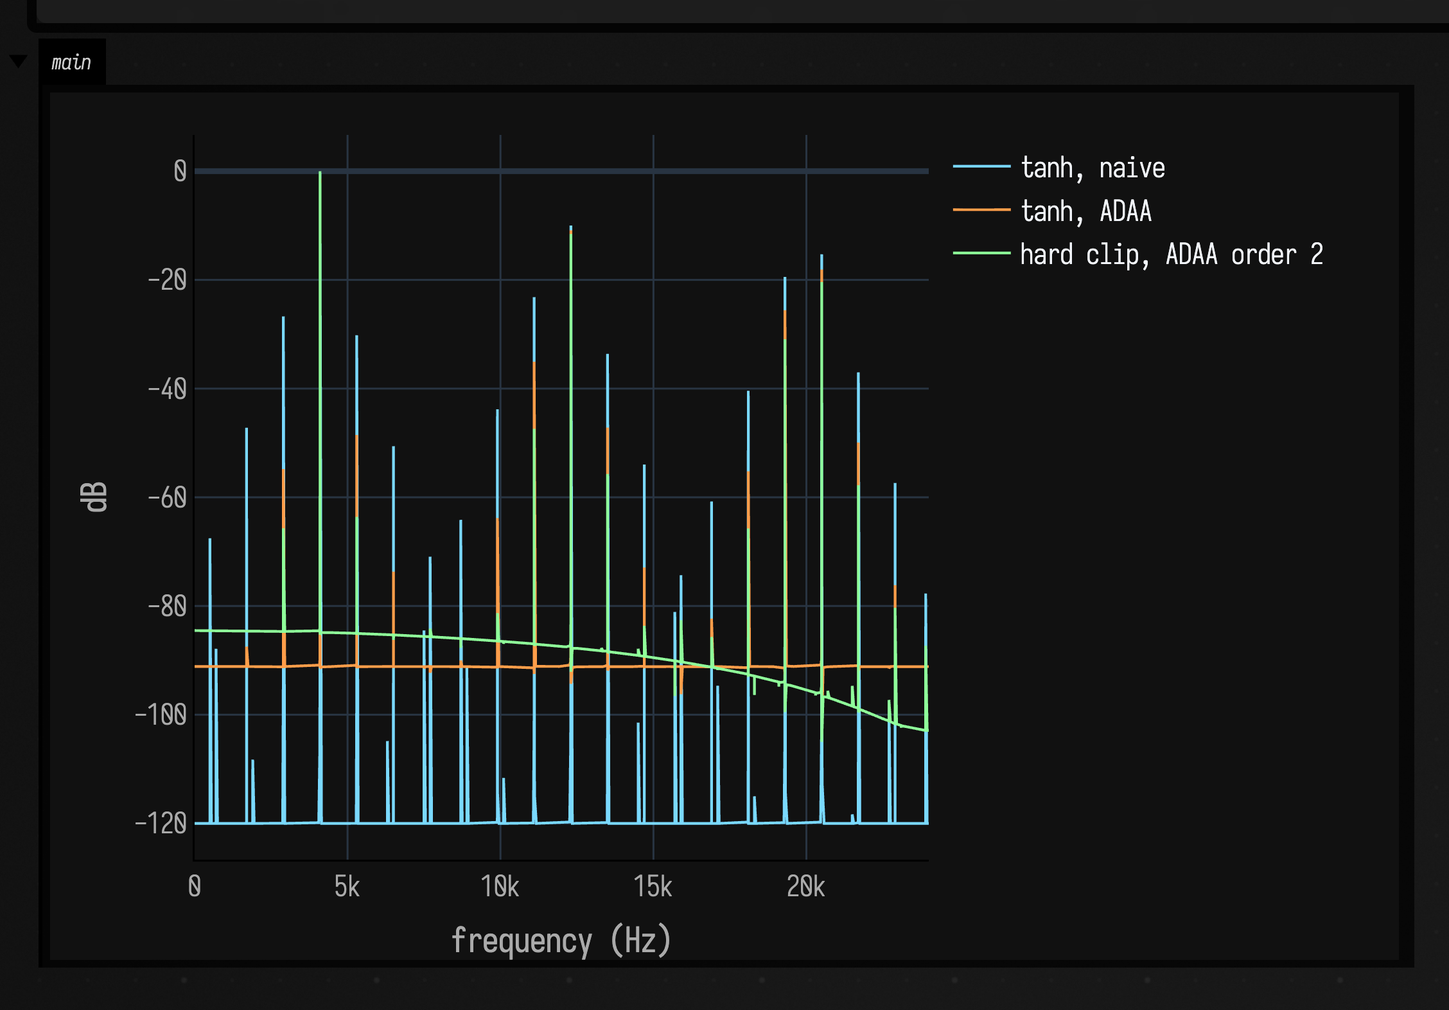
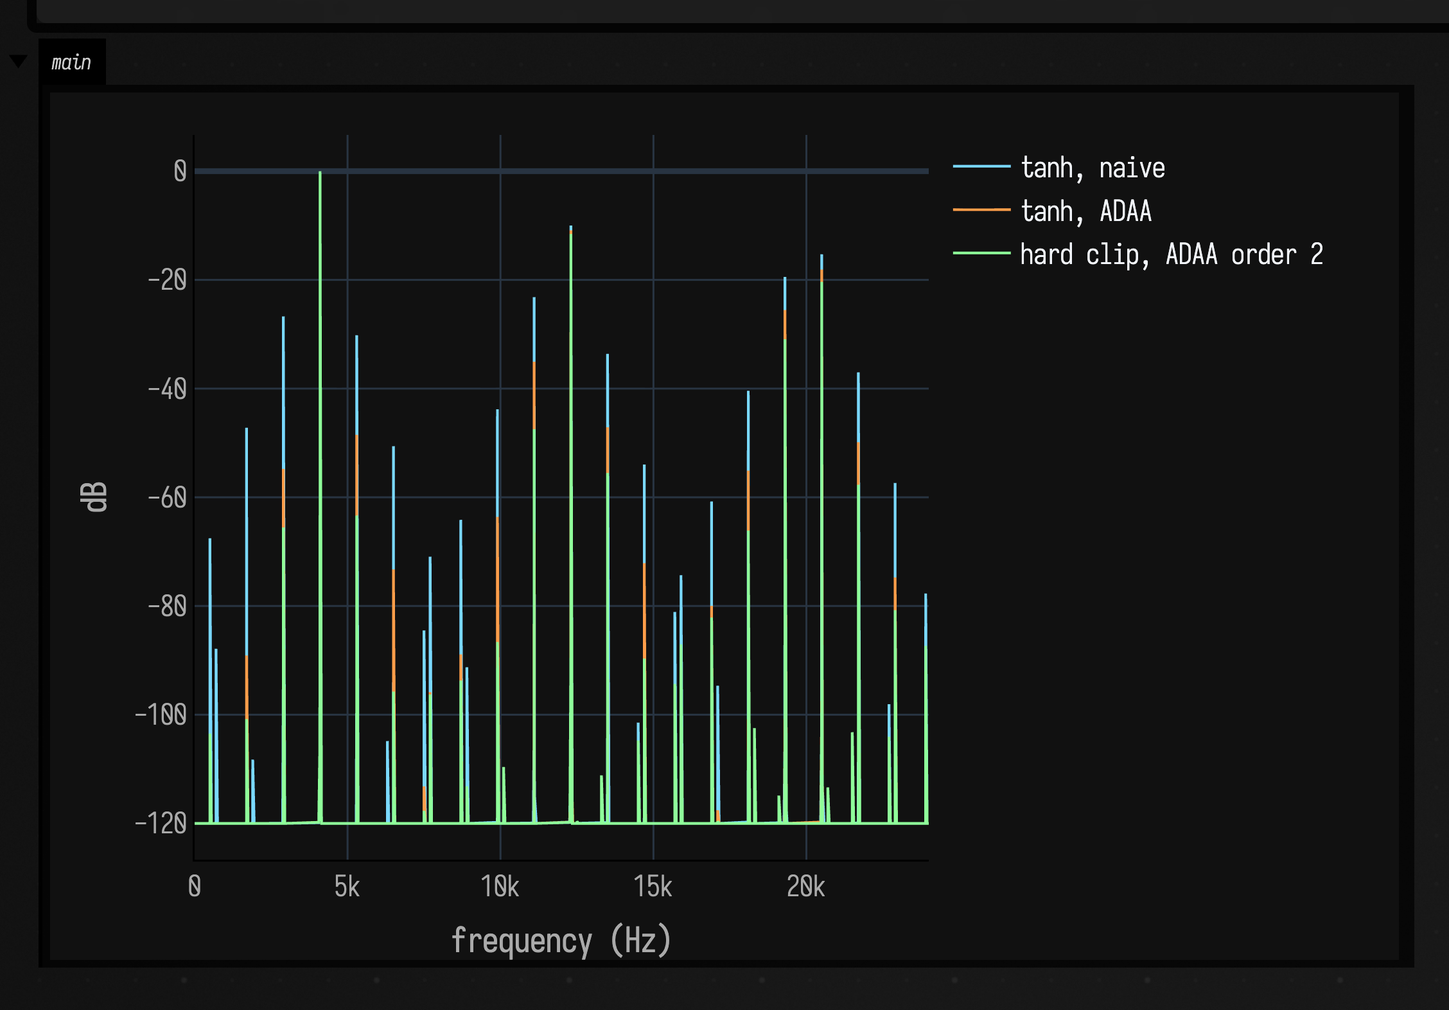
ADAA follow-ups: the −91 dB floor was the measurement, Smoother vs Slew, audio beside its figures
The ADAA tanh spectrum on spectral_examples.md sat on a flat floor near
−91 dB. Probing showed it was not ADAA noise: an exact double-precision
sine gives the same −91.1 dB in every off-line bin (median = p90 = max),
which is one isolated sample. The shaper's history starts at zero, a
running sine's never does, and inside a one-second rectangular FFT that
first sample is an impulse. After a 0.1 s warm-up the floor is −154 dB,
below naive tanh's −146 dB float floor. AdaaShaper is unchanged; the figure
and NonlinearTptTest's alias measurement now analyse a warmed second, and
adaaHasNoNoiseFloorOnceWarm pins the off-line median below −130 dB. The
alias totals are unchanged (tanh −17 → −25 dB; hard clip −15 → −23 → −31).

Smoother stays: Slew limits rate (time per unit of change, starts at
zero), Smoother LINEAR reaches each value in a fixed time and primes with
its first sample. Both KDocs now say which to use when.

Each audio clip moves next to the figure it belongs to: the tanh pair by
the spectrogram, the ladder and SVF by the self-oscillation plot, the
stepped pair under "Smoothing a stepped control". adaa_spectrum.png is
recaptured by the docs runner; the other figures keep their committed bytes.

Changed region(s): [[0.1551, 0.6234, 0.6516, 0.8416]]

diff --git a/src/jvmTest/kotlin/afield/audio/synth/NonlinearTptTest.kt b/src/jvmTest/kotlin/afield/audio/synth/NonlinearTptTest.kt
@@ -89,9 +89,28 @@ class NonlinearTptTest {
         return bins.maxOf { db[it] } - ref to total
     }
 
+    /**
+     * One second of [s] after a tenth of a second of warm-up. A shaper with memory starts with its
+     * history at zero, which a running sine never has; inside a one-second rectangular FFT that
+     * first sample is an impulse, and it shows as a flat floor near −91 dB under every bin.
+     */
+    private fun warmed(s: Signal): FloatArray {
+        val out = renderSignalsOffline(1.1, s)[0]
+        return out.copyOfRange(out.size - sr, out.size)
+    }
+
+    /** Off the harmonics and aliases, a warmed ADAA `tanh` sits at float rounding, not at a start-up floor. */
+    @Test fun adaaHasNoNoiseFloorOnceWarm() {
+        val db = fft(warmed(SineOsc(Param(4100f)) / AdaaShaper(AdaaShape.TANH, Param(8f))), sr.toDouble())
+            .magnitudeDbOneSided(floorDb = -200.0)
+        val off = db.indices.filter { it % 100 != 0 }.map { db[it] - db[4100] }.sorted()
+        val median = off[off.size / 2]
+        assertTrue(median < -130.0, "median off-line bin of a warmed ADAA tanh is $median dB, expected below -130")
+    }
+
     @Test fun adaaAliasesLessThanNaiveShaping() {
         val f0 = 4100
-        fun through(p: SignalProcessor) = aliasDb(renderSignalsOffline(1.0, SineOsc(Param(f0.toFloat())) / p)[0], f0)
+        fun through(p: SignalProcessor) = aliasDb(warmed(SineOsc(Param(f0.toFloat())) / p), f0)
         val tn = through(Waveshaper.tanh(Param(8f)))
         val ta = through(AdaaShaper(AdaaShape.TANH, Param(8f)))
         val c0 = through(Waveshaper.hardClip(Param(8f)))

diff --git a/src/jvmMain/kotlin/afield/audio/synth/Filters.kt b/src/jvmMain/kotlin/afield/audio/synth/Filters.kt
@@ -1056,6 +1056,13 @@ enum class SmootherMode {
  * The first sample is passed through as the starting value, so a smoother never ramps up from zero
  * when a graph starts. [Param.smoothed] wraps a parameter in one, which is the usual way in:
  * `ZdfLadder(cutoff = cutoffParam.smoothed(0.03f))`.
+ *
+ * Two neighbours do similar jobs differently. [Slew] limits the *rate*: its times are per unit of
+ * change, so a jump of 2000 Hz takes two thousand times as long as a jump of 1, rising and falling
+ * can differ, and it starts from zero — right for portamento, wrong for a cutoff slider. `LINEAR`
+ * here instead reaches every new value in the same `time`, whatever the size of the step. `EXP` is
+ * the same lag as an [OnePole] lowpass, set by a time constant instead of a cutoff and primed with
+ * the first sample instead of zero.
  */
 class Smoother(
     val time: Param = Param(0.02f),

diff --git a/src/jvmMain/kotlin/afield/audio/synth/Envelopes.kt b/src/jvmMain/kotlin/afield/audio/synth/Envelopes.kt
@@ -386,6 +386,10 @@ class EnvelopeFollower(
 /**
  * Limits how fast a signal can change.
  * [riseTime] and [fallTime] are in seconds (time to traverse full range).
+ *
+ * Because the limit is a rate, a large jump takes proportionally longer than a small one. To take
+ * the steps out of a control (a slider on a cutoff) in a fixed time whatever their size, use
+ * [Smoother] or [Param.smoothed].
  */
 class Slew(
     val input: Signal,

diff --git a/public/docs/reference/synthesis.md b/public/docs/reference/synthesis.md
@@ -1273,7 +1273,7 @@ Tracks the amplitude envelope of an input signal. Uses separate attack and relea
 
 ### Slew { #envelopes-kt-slew }
 
-[<code class="highlight"><span class="k">class</span> <span class="nf">Slew</span><span class="p">(</span><span class="k">val</span> <span class="n">input</span><span class="p">:</span> <span class="nc">Signal</span><span class="p">,</span> <span class="k">val</span> <span class="n">riseTime</span><span class="p">:</span> <span class="nc">Param</span> <span class="o">=</span> <span class="nc">Param</span><span class="p">(</span><span class="mf">0.01f</span><span class="p">)</span><span class="p">,</span> <span class="k">val</span> <span class="n">fallTime</span><span class="p">:</span> <span class="nc">Param</span> <span class="o">=</span> <span class="nc">Param</span><span class="p">(</span><span class="mf">0.01f</span><span class="p">)</span><span class="p">)</span> <span class="p">:</span> <span class="nc">Signal</span><span class="p">(</span><span class="p">)</span></code>](source/jvmMain/afield/audio/synth/Envelopes/#L390)
+[<code class="highlight"><span class="k">class</span> <span class="nf">Slew</span><span class="p">(</span><span class="k">val</span> <span class="n">input</span><span class="p">:</span> <span class="nc">Signal</span><span class="p">,</span> <span class="k">val</span> <span class="n">riseTime</span><span class="p">:</span> <span class="nc">Param</span> <span class="o">=</span> <span class="nc">Param</span><span class="p">(</span><span class="mf">0.01f</span><span class="p">)</span><span class="p">,</span> <span class="k">val</span> <span class="n">fallTime</span><span class="p">:</span> <span class="nc">Param</span> <span class="o">=</span> <span class="nc">Param</span><span class="p">(</span><span class="mf">0.01f</span><span class="p">)</span><span class="p">)</span> <span class="p">:</span> <span class="nc">Signal</span><span class="p">(</span><span class="p">)</span></code>](source/jvmMain/afield/audio/synth/Envelopes/#L394)
 
 Limits how fast a signal can change. [`riseTime`](synthesis.md#envelopes-kt--slew--risetime) and [`fallTime`](synthesis.md#envelopes-kt--slew--falltime) are in seconds (time to traverse full range).
 
@@ -1282,7 +1282,7 @@ Limits how fast a signal can change. [`riseTime`](synthesis.md#envelopes-kt--sle
 | <a id="envelopes-kt--slew--input"></a><code class="highlight"><span class="k">val</span> <span class="n">input</span><span class="p">:</span> <span class="nc">Signal</span></code> |  |
 | <a id="envelopes-kt--slew--risetime"></a><code class="highlight"><span class="k">val</span> <span class="n">riseTime</span><span class="p">:</span> <span class="nc">Param</span></code> |  |
 | <a id="envelopes-kt--slew--falltime"></a><code class="highlight"><span class="k">val</span> <span class="n">fallTime</span><span class="p">:</span> <span class="nc">Param</span></code> |  |
-| <a id="envelopes-kt--slew--generate"></a>[<code class="highlight"><span class="k">override</span> <span class="k">fun</span> <span class="nf">generate</span><span class="p">(</span><span class="n">output</span><span class="p">:</span> <span class="nc">FloatArray</span><span class="p">,</span> <span class="n">numFrames</span><span class="p">:</span> <span class="nc">Int</span><span class="p">,</span> <span class="n">ctx</span><span class="p">:</span> <span class="nc">SynthContext</span><span class="p">)</span></code>](source/jvmMain/afield/audio/synth/Envelopes/#L400) |  |
+| <a id="envelopes-kt--slew--generate"></a>[<code class="highlight"><span class="k">override</span> <span class="k">fun</span> <span class="nf">generate</span><span class="p">(</span><span class="n">output</span><span class="p">:</span> <span class="nc">FloatArray</span><span class="p">,</span> <span class="n">numFrames</span><span class="p">:</span> <span class="nc">Int</span><span class="p">,</span> <span class="n">ctx</span><span class="p">:</span> <span class="nc">SynthContext</span><span class="p">)</span></code>](source/jvmMain/afield/audio/synth/Envelopes/#L404) |  |
 
 ## ExplainerSoundDocs.kt { #explainersounddocs-kt }
 
@@ -2476,7 +2476,7 @@ self-oscillate cleanly at their cutoff. [`Smoother`](synthesis.md#filters-kt-smo
 | <a id="filters-kt--lowpass"></a>[<code class="highlight"><span class="k">fun</span> <span class="nc">Signal</span><span class="p">.</span><span class="nf">lowpass</span><span class="p">(</span><span class="n">cutoffHz</span><span class="p">:</span> <span class="nc">Float</span><span class="p">,</span> <span class="n">q</span><span class="p">:</span> <span class="nc">Float</span> <span class="o">=</span> <span class="mf">0.707f</span><span class="p">)</span><span class="p">:</span> <span class="nc">Signal</span></code>](source/jvmMain/afield/audio/synth/Filters/#L83) | This signal through a 12 dB/octave [`Biquad`](synthesis.md#filters-kt-biquad) lowpass at `cutoffHz`: `bass.lowpass(150f)`. |
 | <a id="filters-kt--highpass"></a>[<code class="highlight"><span class="k">fun</span> <span class="nc">Signal</span><span class="p">.</span><span class="nf">highpass</span><span class="p">(</span><span class="n">cutoffHz</span><span class="p">:</span> <span class="nc">Float</span><span class="p">,</span> <span class="n">q</span><span class="p">:</span> <span class="nc">Float</span> <span class="o">=</span> <span class="mf">0.707f</span><span class="p">)</span><span class="p">:</span> <span class="nc">Signal</span></code>](source/jvmMain/afield/audio/synth/Filters/#L86) | This signal through a 12 dB/octave [`Biquad`](synthesis.md#filters-kt-biquad) highpass at `cutoffHz`. See [`lowpass`](synthesis.md#filters-kt--lowpass). |
 | <a id="filters-kt--impulseresponse"></a>[<code class="highlight"><span class="k">fun</span> <span class="nf">impulseResponse</span><span class="p">(</span><span class="n">processor</span><span class="p">:</span> <span class="nc">SignalProcessor</span><span class="p">,</span> <span class="n">frames</span><span class="p">:</span> <span class="nc">Int</span> <span class="o">=</span> <span class="mi">8192</span><span class="p">,</span> <span class="n">sampleRate</span><span class="p">:</span> <span class="nc">Int</span> <span class="o">=</span> <span class="mi">48</span><span class="n">&#95;000</span><span class="p">,</span> <span class="n">amplitude</span><span class="p">:</span> <span class="nc">Float</span> <span class="o">=</span> <span class="mi">1f</span><span class="p">)</span><span class="p">:</span> <span class="nc">FloatArray</span></code>](source/jvmMain/afield/audio/synth/Filters/#L742) | The impulse response of `processor` at `sampleRate`: a unit impulse rendered through it for `frames` samples. Use small `amplitude` to read a nonlinear filter's small-signal response. The processor's state is consumed; pass a fresh one. Its magnitude response is `fft(impulseResponse(f, sampleRate), sampleRate.toDouble()).magnitudeDbOneSided()`, one bin per hertz when `frames` equals `sampleRate`. |
-| <a id="filters-kt--smoothed"></a>[<code class="highlight"><span class="k">fun</span> <span class="nc">Param</span><span class="p">.</span><span class="nf">smoothed</span><span class="p">(</span><span class="n">seconds</span><span class="p">:</span> <span class="nc">Float</span> <span class="o">=</span> <span class="mf">0.02f</span><span class="p">,</span> <span class="n">mode</span><span class="p">:</span> <span class="nc">SmootherMode</span> <span class="o">=</span> <span class="nc">SmootherMode</span><span class="p">.</span><span class="nc">EXP</span><span class="p">)</span><span class="p">:</span> <span class="nc">Param</span></code>](source/jvmMain/afield/audio/synth/Filters/#L1093) | This parameter through a [`Smoother`](synthesis.md#filters-kt-smoother) of `seconds`, as a new [`Param`](synthesis.md#signal-kt-param) to hand to a filter: set this one's `base` from a slider and the filter sees the value glide rather than jump. |
+| <a id="filters-kt--smoothed"></a>[<code class="highlight"><span class="k">fun</span> <span class="nc">Param</span><span class="p">.</span><span class="nf">smoothed</span><span class="p">(</span><span class="n">seconds</span><span class="p">:</span> <span class="nc">Float</span> <span class="o">=</span> <span class="mf">0.02f</span><span class="p">,</span> <span class="n">mode</span><span class="p">:</span> <span class="nc">SmootherMode</span> <span class="o">=</span> <span class="nc">SmootherMode</span><span class="p">.</span><span class="nc">EXP</span><span class="p">)</span><span class="p">:</span> <span class="nc">Param</span></code>](source/jvmMain/afield/audio/synth/Filters/#L1100) | This parameter through a [`Smoother`](synthesis.md#filters-kt-smoother) of `seconds`, as a new [`Param`](synthesis.md#signal-kt-param) to hand to a filter: set this one's `base` from a slider and the filter sees the value glide rather than jump. |
 
 ### OnePole { #filters-kt-onepole }
 
@@ -2740,7 +2740,7 @@ Constants: `EXP`, `LINEAR`.
 
 ### Smoother { #filters-kt-smoother }
 
-[<code class="highlight"><span class="k">class</span> <span class="nf">Smoother</span><span class="p">(</span><span class="k">val</span> <span class="n">time</span><span class="p">:</span> <span class="nc">Param</span> <span class="o">=</span> <span class="nc">Param</span><span class="p">(</span><span class="mf">0.02f</span><span class="p">)</span><span class="p">,</span> <span class="k">val</span> <span class="n">mode</span><span class="p">:</span> <span class="nc">SmootherMode</span> <span class="o">=</span> <span class="nc">SmootherMode</span><span class="p">.</span><span class="nc">EXP</span><span class="p">)</span> <span class="p">:</span> <span class="nc">SignalProcessor</span><span class="p">(</span><span class="p">)</span></code>](source/jvmMain/afield/audio/synth/Filters/#L1060)
+[<code class="highlight"><span class="k">class</span> <span class="nf">Smoother</span><span class="p">(</span><span class="k">val</span> <span class="n">time</span><span class="p">:</span> <span class="nc">Param</span> <span class="o">=</span> <span class="nc">Param</span><span class="p">(</span><span class="mf">0.02f</span><span class="p">)</span><span class="p">,</span> <span class="k">val</span> <span class="n">mode</span><span class="p">:</span> <span class="nc">SmootherMode</span> <span class="o">=</span> <span class="nc">SmootherMode</span><span class="p">.</span><span class="nc">EXP</span><span class="p">)</span> <span class="p">:</span> <span class="nc">SignalProcessor</span><span class="p">(</span><span class="p">)</span></code>](source/jvmMain/afield/audio/synth/Filters/#L1067)
 
 Smooths a stepped control signal so a filter or gain fed from it does not click. A slider writing a constant [`Param`](synthesis.md#signal-kt-param)'s `base` jumps between audio blocks; a sequence of steps jumps on the sample; either, fed to a cutoff, is a zipper. `stepped / Smoother(0.02.p)` takes the corner off every step.
 
@@ -2748,7 +2748,7 @@ Smooths a stepped control signal so a filter or gain fed from it does not click.
 | --- | --- |
 | <a id="filters-kt--smoother--time"></a><code class="highlight"><span class="k">val</span> <span class="n">time</span><span class="p">:</span> <span class="nc">Param</span></code> |  |
 | <a id="filters-kt--smoother--mode"></a><code class="highlight"><span class="k">val</span> <span class="n">mode</span><span class="p">:</span> <span class="nc">SmootherMode</span></code> |  |
-| <a id="filters-kt--smoother--generate"></a>[<code class="highlight"><span class="k">override</span> <span class="k">fun</span> <span class="nf">generate</span><span class="p">(</span><span class="n">output</span><span class="p">:</span> <span class="nc">FloatArray</span><span class="p">,</span> <span class="n">numFrames</span><span class="p">:</span> <span class="nc">Int</span><span class="p">,</span> <span class="n">ctx</span><span class="p">:</span> <span class="nc">SynthContext</span><span class="p">)</span></code>](source/jvmMain/afield/audio/synth/Filters/#L1068) |  |
+| <a id="filters-kt--smoother--generate"></a>[<code class="highlight"><span class="k">override</span> <span class="k">fun</span> <span class="nf">generate</span><span class="p">(</span><span class="n">output</span><span class="p">:</span> <span class="nc">FloatArray</span><span class="p">,</span> <span class="n">numFrames</span><span class="p">:</span> <span class="nc">Int</span><span class="p">,</span> <span class="n">ctx</span><span class="p">:</span> <span class="nc">SynthContext</span><span class="p">)</span></code>](source/jvmMain/afield/audio/synth/Filters/#L1075) |  |
 
 ## FnSignal.kt { #fnsignal-kt }
 

diff --git a/public/docs/spectral_examples.md b/public/docs/spectral_examples.md
@@ -620,14 +620,28 @@ showHeatmap(
 
 ![Two spectrograms side by side on a dark ground, time left to right, frequency upward. In each, an orange fundamental curves up from the bottom left and a fan of fainter cyan harmonics curves up above it. Many cyan lines reflect off the top edge and run back down, crossing the fan in a lattice. The lattice is bright in the left half and visibly dimmer in the right half, especially low in the frame](assets/tpt_filters/adaa_spectrogram.png)
 
+To hear it: the 200 Hz to 8 kHz sweep through `tanh` at drive 6, first naive, then with ADAA. Listen in the last
+second, where the aliases fall in pitch as the sweep rises:
+
+```diffstatic_runner {data-lang=kotlin audio="assets/tpt_filters/tanh-naive.wav" audio-spec="tanh-naive" audio-renderer="afield.audio.synth.TptFilterDocs" embed=true hidden=true name="tpt-filters-tanh-naive-audio"}
+// Offline-rendered by TptFilterDocs.renderWav("tanh-naive").
+```
+
+```diffstatic_runner {data-lang=kotlin audio="assets/tpt_filters/tanh-adaa.wav" audio-spec="tanh-adaa" audio-renderer="afield.audio.synth.TptFilterDocs" embed=true hidden=true name="tpt-filters-tanh-adaa-audio"}
+// Offline-rendered by TptFilterDocs.renderWav("tanh-adaa").
+```
+
 The same comparison at one frequency, a 4.1 kHz sine at drive 8, for `tanh` and for the hard clip
 at both orders. Every peak that is not a multiple of 4.1 kHz is an alias:
 
 ```diffstatic_runner {data-lang=kotlin screenshot="assets/tpt_filters/adaa_spectrum.png" wait="2.0" capture="box" open-outputs="true" padding="20"}
 :::static
-// dB relative to the fundamental, floored at −120
+// dB relative to the fundamental, floored at −120. The first 0.1 s is dropped: a shaper's
+// history starts at zero, which a running sine never has, and that first sample would show as a
+// flat floor under every bin.
 fun spectrumDb(shaper: SignalProcessor): List<Double> {
-    val db = fft(renderSignalsOffline(1.0, SineOsc(4100.p) / shaper)[0], 48_000.0).magnitudeDbOneSided(floorDb = -200.0)
+    val out = renderSignalsOffline(1.1, SineOsc(4100.p) / shaper)[0]
+    val db = fft(out.copyOfRange(4800, out.size), 48_000.0).magnitudeDbOneSided(floorDb = -200.0)
     return db.map { (it - db[4100]).coerceAtLeast(-120.0) }
 }
 
@@ -641,7 +655,7 @@ showSignals(
 )
 ```
 
-![Three spectra of a 4.1 kHz sine at drive 8 in dB relative to the fundamental, to 24 kHz. All share the fundamental at 0 dB and harmonics near −10 dB at 12.3 kHz and −15 dB at 20.5 kHz. Between them the naive tanh in blue has alias spikes up to about −20 dB, the loudest near 19.3 kHz and 11.1 kHz. The ADAA tanh in orange has spikes at the same places, mostly 5 to 25 dB lower, over a flat floor near −90 dB; the green order-2 hard clip is lower still at most aliases](assets/tpt_filters/adaa_spectrum.png)
+![Three spectra of a 4.1 kHz sine at drive 8 in dB relative to the fundamental, to 24 kHz. All share the fundamental at 0 dB and harmonics near −10 dB at 12.3 kHz and −15 dB at 20.5 kHz. Between them the naive tanh in blue has alias spikes up to about −20 dB, the loudest near 19.3 kHz and 11.1 kHz. The ADAA tanh in orange has spikes at the same places, mostly 5 to 25 dB lower; the green order-2 hard clip is lower still at most aliases](assets/tpt_filters/adaa_spectrum.png)
 
 `NonlinearTptTest` measures the same signal and sums the power in every bin that is not a
 harmonic. Relative to the fundamental, naive `tanh` puts −17 dB there and ADAA `tanh` −25 dB. The
@@ -692,6 +706,29 @@ showSignals(
 
 ![Two waveforms over 300 ms from silence. Both stay at zero for about 70 ms, then grow: the blue ZdfLadder output swells to a steady band of about ±0.15 by 110 ms, and the orange ZdfSvf output grows to a steady ±0.46 by about 130 ms and stays there](assets/tpt_filters/zdf_self_oscillation.png)
 
+A 55 Hz saw through `ZdfLadder`, the cutoff sweeping slowly while resonance rises from 0.6 to past 1
+over four seconds, until the filter's own tone takes over:
+
+```diffstatic {data-lang=kotlin}
+SawOsc(55.p) * 0.5f /
+    ZdfLadder(
+        Param(700f).also { it.mod = SineOsc(0.25.p) * 500f },
+        Param { 0.6f + 0.55f * (time / 4f).coerceAtMost(1f) },
+        drive = 1.5.p,
+    )
+```
+
+```diffstatic_runner {data-lang=kotlin audio="assets/tpt_filters/zdf-ladder.wav" audio-spec="zdf-ladder" audio-renderer="afield.audio.synth.TptFilterDocs" embed=true hidden=true name="tpt-filters-zdf-ladder-audio"}
+// Offline-rendered by TptFilterDocs.renderWav("zdf-ladder").
+```
+
+A self-oscillating `ZdfSvf` band-pass played as an oscillator: faint noise in, its cutoff stepping
+through five pitches and smoothed over 40 ms, so each step is a glide:
+
+```diffstatic_runner {data-lang=kotlin audio="assets/tpt_filters/zdf-svf.wav" audio-spec="zdf-svf" audio-renderer="afield.audio.synth.TptFilterDocs" embed=true hidden=true name="tpt-filters-zdf-svf-audio"}
+// Offline-rendered by TptFilterDocs.renderWav("zdf-svf").
+```
+
 `NonlinearTptTest` checks each filter's small-signal response against its bilinear prototype
 (`L⁴/(1 + 4·resonance·L⁴)` with `L = 1/(1+s)` for the ladder, `1/(s² + 2(1 − resonance)s + 1)` for
 the SVF lowpass) and checks that each sings within 2 % of its cutoff at 220 Hz, 1 kHz and 5 kHz.
@@ -727,42 +764,6 @@ showSignals(
 ```
 
 ![A blue step function jumping between 300, 1200, 600, 2400, 900 and 300 Hz every 125 ms. An orange curve follows each step as an exponential rise or fall, nearly arriving before the next step; a green curve follows each one as a straight ramp that arrives 60 ms after the step and then holds flat](assets/tpt_filters/smoother.png)
-
-### Listening: saturation and the singing filters
-
-The 200 Hz to 8 kHz sweep through `tanh` at drive 6, first naive, then with ADAA. Listen in the last
-second, where the aliases fall in pitch as the sweep rises:
-
-```diffstatic_runner {data-lang=kotlin audio="assets/tpt_filters/tanh-naive.wav" audio-spec="tanh-naive" audio-renderer="afield.audio.synth.TptFilterDocs" embed=true hidden=true name="tpt-filters-tanh-naive-audio"}
-// Offline-rendered by TptFilterDocs.renderWav("tanh-naive").
-```
-
-```diffstatic_runner {data-lang=kotlin audio="assets/tpt_filters/tanh-adaa.wav" audio-spec="tanh-adaa" audio-renderer="afield.audio.synth.TptFilterDocs" embed=true hidden=true name="tpt-filters-tanh-adaa-audio"}
-// Offline-rendered by TptFilterDocs.renderWav("tanh-adaa").
-```
-
-A 55 Hz saw through `ZdfLadder`, the cutoff sweeping slowly while resonance rises from 0.6 to past 1
-over four seconds, until the filter's own tone takes over:
-
-```diffstatic {data-lang=kotlin}
-SawOsc(55.p) * 0.5f /
-    ZdfLadder(
-        Param(700f).also { it.mod = SineOsc(0.25.p) * 500f },
-        Param { 0.6f + 0.55f * (time / 4f).coerceAtMost(1f) },
-        drive = 1.5.p,
-    )
-```
-
-```diffstatic_runner {data-lang=kotlin audio="assets/tpt_filters/zdf-ladder.wav" audio-spec="zdf-ladder" audio-renderer="afield.audio.synth.TptFilterDocs" embed=true hidden=true name="tpt-filters-zdf-ladder-audio"}
-// Offline-rendered by TptFilterDocs.renderWav("zdf-ladder").
-```
-
-A self-oscillating `ZdfSvf` band-pass played as an oscillator: faint noise in, its cutoff stepping
-through five pitches and smoothed over 40 ms, so each step is a glide:
-
-```diffstatic_runner {data-lang=kotlin audio="assets/tpt_filters/zdf-svf.wav" audio-spec="zdf-svf" audio-renderer="afield.audio.synth.TptFilterDocs" embed=true hidden=true name="tpt-filters-zdf-svf-audio"}
-// Offline-rendered by TptFilterDocs.renderWav("zdf-svf").
-```
 
 A saw through a ladder whose cutoff steps eight times a second, raw and then through `smoothed(0.03f)`.
 The first one clicks on every step:
